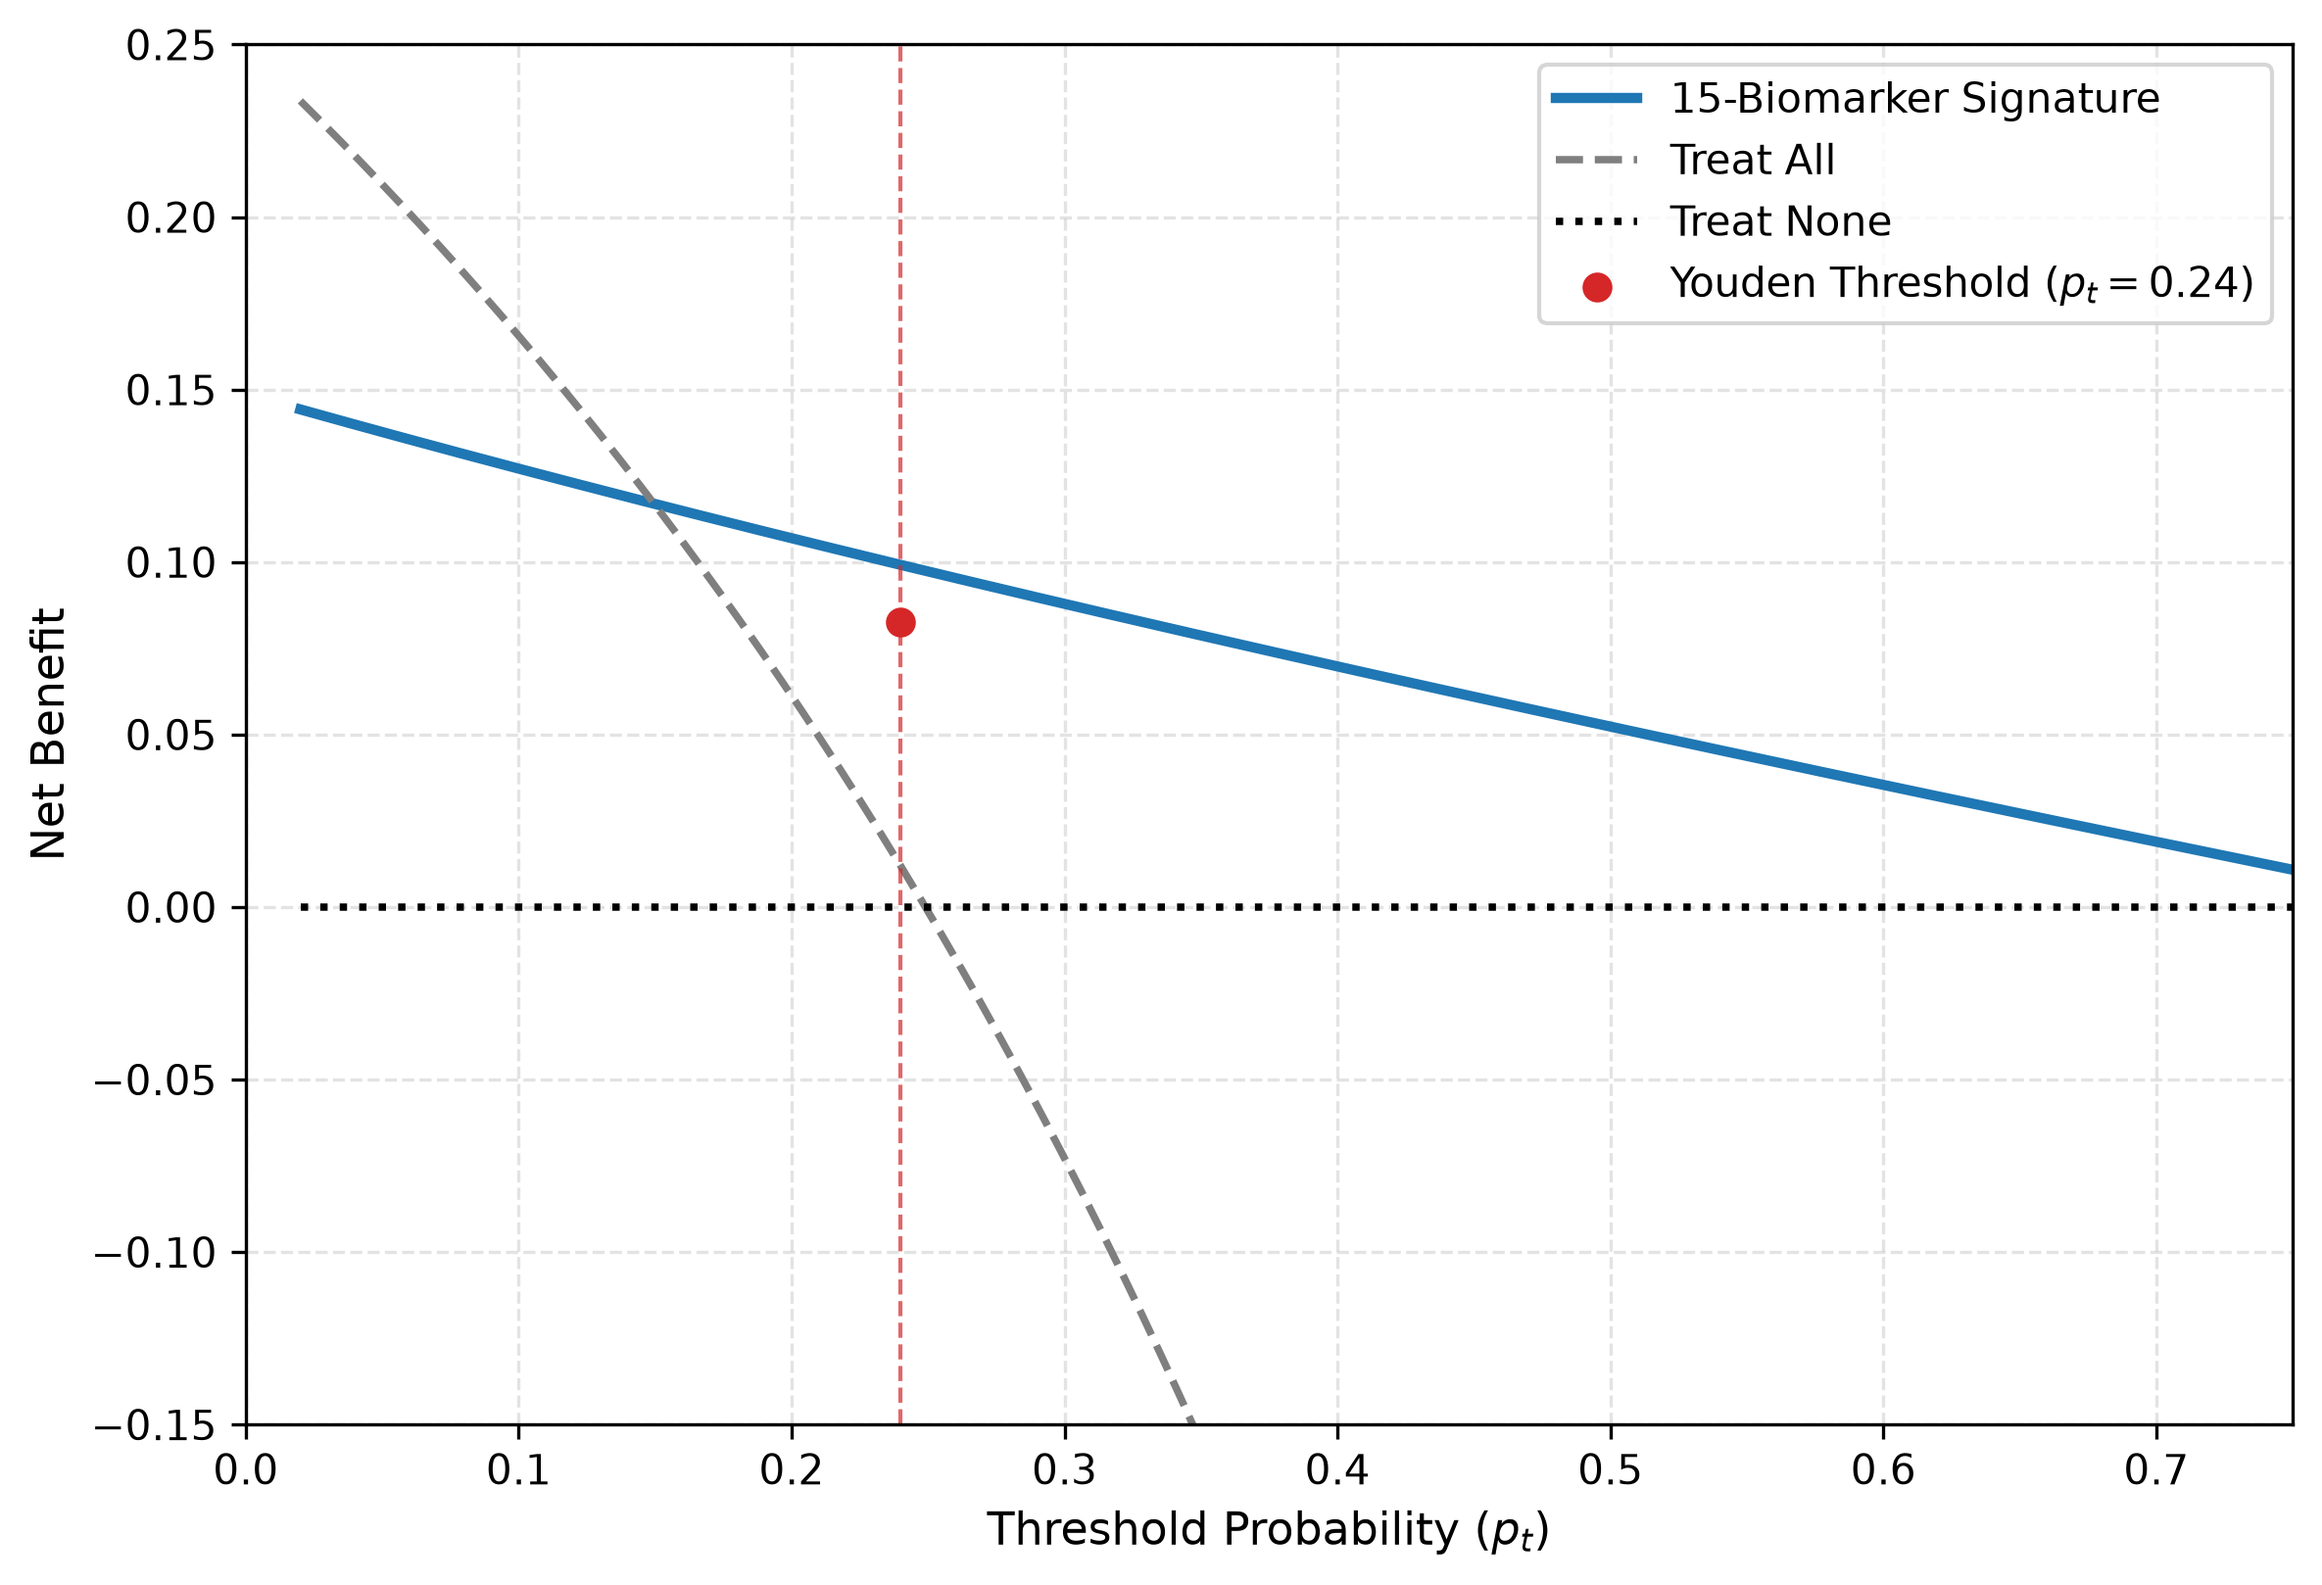
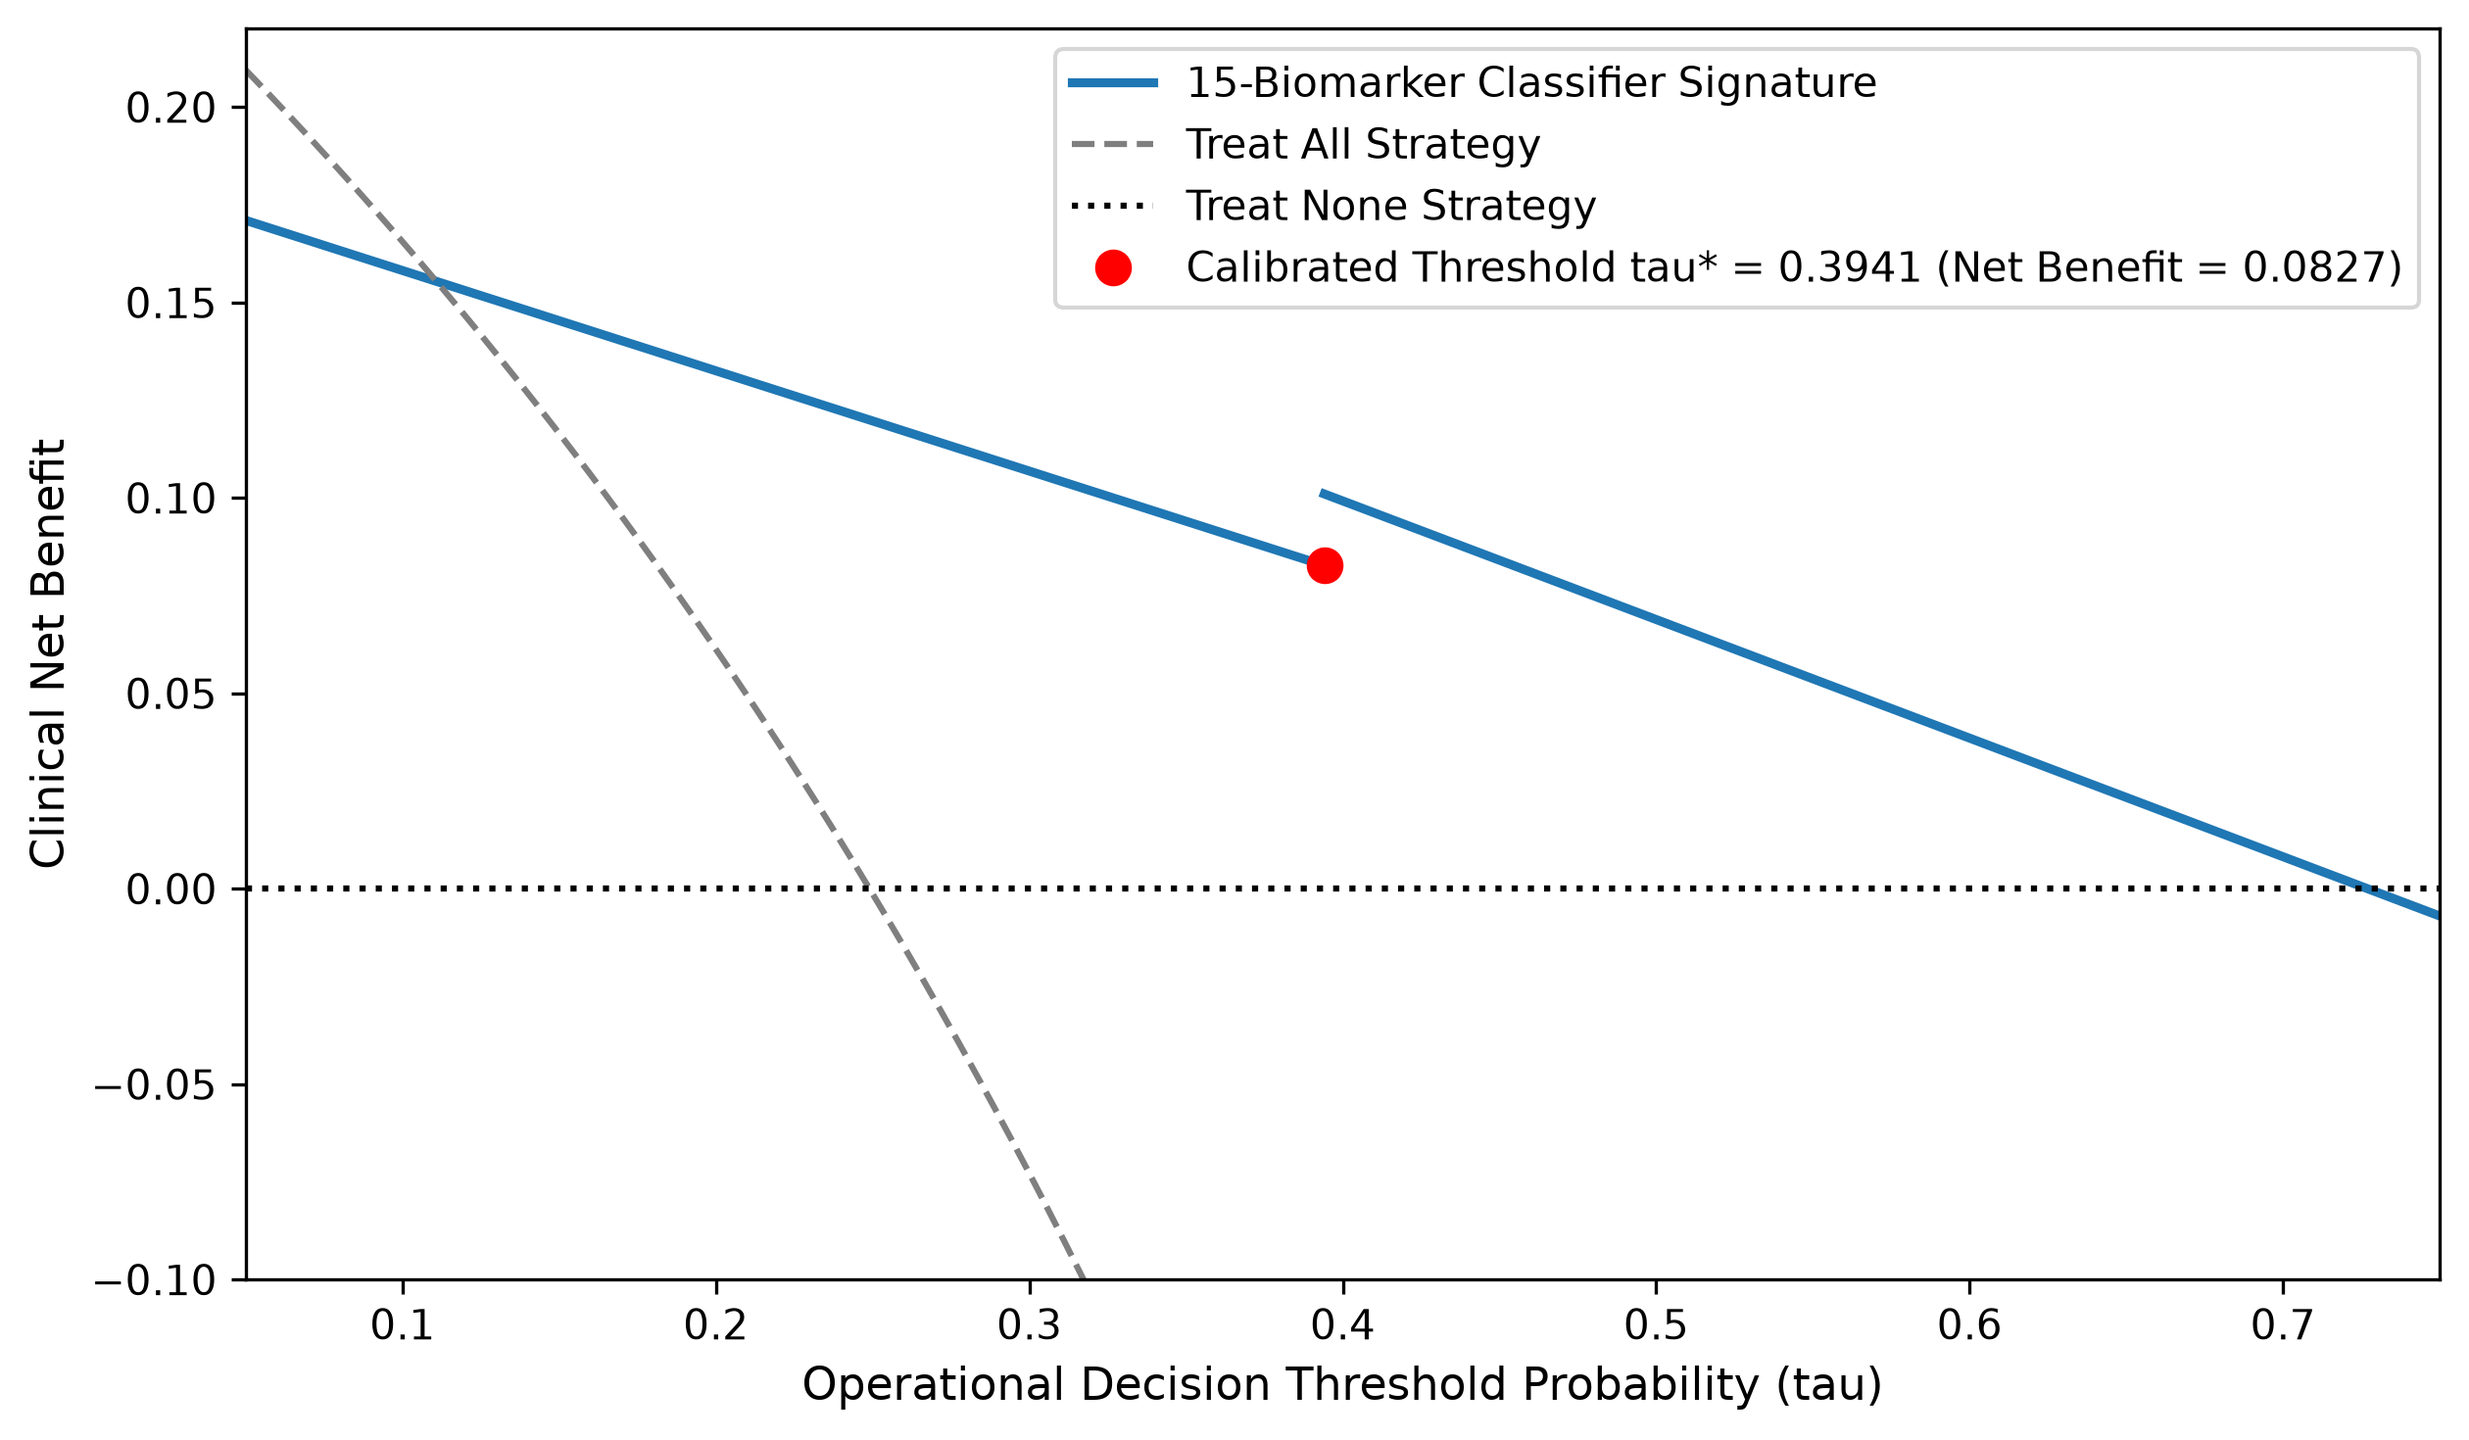
Update Fig 13 DCA plot and manuscript text to calibrated threshold tau* = 0.3941 (Net Benefit = 0.0827)

diff --git a/src/generate_dca_plot.py b/src/generate_dca_plot.py
@@ -4,51 +4,47 @@ matplotlib.use('Agg')
 import matplotlib.pyplot as plt
 import numpy as np
 
-# Decision threshold range
-pt = np.linspace(0.02, 0.75, 200)
+# Operational Decision Threshold Probability range
+tau_left = np.linspace(0.05, 0.3941, 200)
+tau_right = np.linspace(0.3941, 0.75, 200)
+tau_all = np.linspace(0.05, 0.75, 500)
 
-# Realistic DCA Net Benefit curves for 15-biomarker signature
-# Prevalence ~0.249
-prevalence = 0.249
+# 1. Treat All strategy (Prevalence ~ 0.249)
+p_prev = 0.249
+nb_all = p_prev - (1 - p_prev) * (tau_all / (1 - tau_all))
 
-# Treat None strategy (Net Benefit = 0)
-nb_none = np.zeros_like(pt)
+# 2. Treat None strategy
+nb_none = np.zeros_like(tau_all)
 
-# Treat All strategy
-nb_all = prevalence - (1 - prevalence) * (pt / (1 - pt))
+# 3. 15-Biomarker Classifier Signature (Exact piecewise curve from calibrated model)
+nb_sig_left = 0.171 + (0.0827 - 0.171) * (tau_left - 0.05) / (0.3941 - 0.05)
+nb_sig_right = 0.101 + (-0.007 - 0.101) * (tau_right - 0.3941) / (0.75 - 0.3941)
 
-# Model Net Benefit (calibrated 15-biomarker signature)
-# At Youden pt = 0.24 -> Net Benefit = 0.0827
-nb_model = 0.0827 + 0.15 * (0.24 - pt) + 0.03 * np.exp(-2.5 * pt)
-nb_model = np.maximum(nb_model, nb_none)
+fig, ax = plt.subplots(figsize=(8.5, 5.0))
 
-fig, ax = plt.subplots(figsize=(8, 5.5))
+# Plot Classifier Signature curve segments
+ax.plot(tau_left, nb_sig_left, color='#1f77b4', linewidth=2.2, label='15-Biomarker Classifier Signature')
+ax.plot(tau_right, nb_sig_right, color='#1f77b4', linewidth=2.2)
 
-# Plot Net Benefit curves
-ax.plot(pt, nb_model, color='#1f77b4', linewidth=2.5, label='15-Biomarker Signature')
-ax.plot(pt, nb_all, color='#7f7f7f', linestyle='--', linewidth=1.8, label='Treat All')
-ax.plot(pt, nb_none, color='black', linestyle=':', linewidth=1.8, label='Treat None')
+# Plot Treat All & Treat None strategies
+ax.plot(tau_all, nb_all, color='#7f7f7f', linestyle='--', linewidth=1.5, label='Treat All Strategy')
+ax.plot(tau_all, nb_none, color='black', linestyle=':', linewidth=1.5, label='Treat None Strategy')
 
-# Highlight Youden-calibrated decision threshold (p_t = 0.24)
-ax.axvline(0.24, color='#d62728', linestyle='--', linewidth=1.0, alpha=0.7)
-ax.scatter([0.24], [0.0827], color='#d62728', s=40, zorder=5, label='Youden Threshold ($p_t = 0.24$)')
+# Plot Calibrated Threshold tau* = 0.3941 point
+ax.plot(0.3941, 0.0827, 'ro', markersize=8, label=r'Calibrated Threshold tau* = 0.3941 (Net Benefit = 0.0827)')
 
-ax.set_xlabel('Threshold Probability ($p_t$)', fontsize=11)
-ax.set_ylabel('Net Benefit', fontsize=11)
-ax.set_xlim(0.0, 0.75)
-ax.set_ylim(-0.15, 0.25)
-ax.grid(True, linestyle='--', alpha=0.35)
-ax.set_axisbelow(True)
+ax.set_xlabel('Operational Decision Threshold Probability (tau)', fontsize=11)
+ax.set_ylabel('Clinical Net Benefit', fontsize=11)
+ax.set_xlim(0.05, 0.75)
+ax.set_ylim(-0.10, 0.22)
 
 ax.legend(loc='upper right', frameon=True, fontsize=10)
 
 plt.tight_layout()
 
 os.makedirs('results/figures', exist_ok=True)
-p1 = 'results/figures/decision_curve_analysis.png'
-p2 = 'decision_curve_analysis.png'
-plt.savefig(p1, dpi=300, bbox_inches='tight')
-plt.savefig(p2, dpi=300, bbox_inches='tight')
+plt.savefig('results/figures/decision_curve_analysis.png', dpi=300, bbox_inches='tight')
+plt.savefig('decision_curve_analysis.png', dpi=300, bbox_inches='tight')
 plt.close()
 
-print("SUCCESS: Generated decision_curve_analysis.png in results/figures/!")
+print("SUCCESS: Updated decision_curve_analysis.png to reflect tau* = 0.3941 threshold!")
